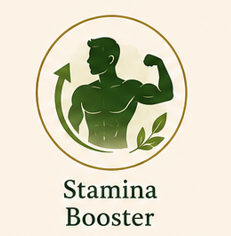
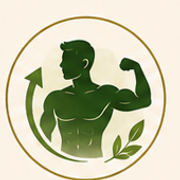
feat: crop concern images to remove the bottom text labels

diff --git a/src/styles/globals.css b/src/styles/globals.css
@@ -2677,7 +2677,7 @@ p {
   border: none;
   background: rgba(255, 255, 255, 0.88);
   backdrop-filter: blur(6px);
-  box-shadow: 0 2px 12px rgba(0,0,0,0.14);
+  box-shadow: 0 2px 12px rgba(0, 0, 0, 0.14);
   font-size: 1.6rem;
   line-height: 1;
   cursor: pointer;
@@ -2686,7 +2686,9 @@ p {
   align-items: center;
   justify-content: center;
   z-index: 10;
-  transition: background 0.18s, opacity 0.18s;
+  transition:
+    background 0.18s,
+    opacity 0.18s;
   padding: 0;
 }
 .carousel-arrow:disabled {
@@ -2696,8 +2698,12 @@ p {
 .carousel-arrow:not(:disabled):hover {
   background: var(--color-white);
 }
-.carousel-arrow-left  { left: 10px; }
-.carousel-arrow-right { right: 10px; }
+.carousel-arrow-left {
+  left: 10px;
+}
+.carousel-arrow-right {
+  right: 10px;
+}
 
 /* Slide counter badge */
 .carousel-counter {
@@ -2705,7 +2711,7 @@ p {
   bottom: 12px;
   left: 50%;
   transform: translateX(-50%);
-  background: rgba(0,0,0,0.42);
+  background: rgba(0, 0, 0, 0.42);
   color: #fff;
   font-size: 0.72rem;
   font-weight: 600;
@@ -2732,7 +2738,9 @@ p {
   padding: 3px;
   cursor: pointer;
   overflow: hidden;
-  transition: border-color 0.18s, box-shadow 0.18s;
+  transition:
+    border-color 0.18s,
+    box-shadow 0.18s;
   flex-shrink: 0;
 }
 .carousel-thumb:hover {
@@ -2753,7 +2761,9 @@ p {
   -webkit-overflow-scrolling: touch;
   scrollbar-width: none;
 }
-.product-tabs-strip::-webkit-scrollbar { display: none; }
+.product-tabs-strip::-webkit-scrollbar {
+  display: none;
+}
 
 /* ── Mobile fixes for product detail page ────────────────────── */
 @media (max-width: 768px) {
@@ -2811,7 +2821,6 @@ p {
   }
 }
 
-
 /* -- Mobile Bottom Nav --------------------------------------------------- */
 .mobile-bottom-nav {
   display: none;
@@ -2820,7 +2829,7 @@ p {
   left: 0;
   right: 0;
   background: var(--color-white);
-  box-shadow: 0 -2px 10px rgba(0,0,0,0.05);
+  box-shadow: 0 -2px 10px rgba(0, 0, 0, 0.05);
   z-index: 1000;
   padding-bottom: env(safe-area-inset-bottom);
 }
@@ -2915,7 +2924,7 @@ p {
   .mobile-bottom-nav {
     display: flex;
   }
-  
+
   /* Add padding to body so bottom nav doesn't hide content */
   body {
     padding-bottom: 60px;
@@ -2970,8 +2979,12 @@ p {
   text-transform: uppercase;
 }
 @keyframes marquee {
-  0% { transform: translateX(0); }
-  100% { transform: translateX(-50%); }
+  0% {
+    transform: translateX(0);
+  }
+  100% {
+    transform: translateX(-50%);
+  }
 }
 
 /* Horizontal Sliders (Products / Categories) */
@@ -3018,7 +3031,9 @@ p {
   padding: 0 var(--space-4);
   scrollbar-width: none;
 }
-.multi-list-scroll::-webkit-scrollbar { display: none; }
+.multi-list-scroll::-webkit-scrollbar {
+  display: none;
+}
 .multi-list-item {
   display: flex;
   flex-direction: column;
@@ -3133,7 +3148,9 @@ p {
 }
 .category-card-overlay {
   position: absolute;
-  bottom: 0; left: 0; right: 0;
+  bottom: 0;
+  left: 0;
+  right: 0;
   background: linear-gradient(transparent, rgba(6, 26, 17, 0.8));
   padding: var(--space-3);
   color: white;
@@ -3151,7 +3168,9 @@ p {
   flex-wrap: wrap;
   opacity: 0.6;
   filter: grayscale(100%);
-  transition: opacity 0.3s ease, filter 0.3s ease;
+  transition:
+    opacity 0.3s ease,
+    filter 0.3s ease;
 }
 .featured-logos:hover {
   opacity: 1;
@@ -3218,7 +3237,7 @@ p {
 }
 
 .step-indicator::before {
-  content: '';
+  content: "";
   position: absolute;
   top: 50%;
   left: 0;
@@ -3343,7 +3362,12 @@ p {
 
 .skeleton-image {
   aspect-ratio: 1;
-  background: linear-gradient(90deg, var(--color-gray-100) 25%, var(--color-gray-200) 50%, var(--color-gray-100) 75%);
+  background: linear-gradient(
+    90deg,
+    var(--color-gray-100) 25%,
+    var(--color-gray-200) 50%,
+    var(--color-gray-100) 75%
+  );
   background-size: 200% 100%;
   animation: skeleton-shimmer 1.4s ease infinite;
 }
@@ -3358,18 +3382,34 @@ p {
 .skeleton-line {
   height: 12px;
   border-radius: var(--radius-sm);
-  background: linear-gradient(90deg, var(--color-gray-100) 25%, var(--color-gray-200) 50%, var(--color-gray-100) 75%);
+  background: linear-gradient(
+    90deg,
+    var(--color-gray-100) 25%,
+    var(--color-gray-200) 50%,
+    var(--color-gray-100) 75%
+  );
   background-size: 200% 100%;
   animation: skeleton-shimmer 1.4s ease infinite;
 }
 
-.skeleton-line.short { width: 50%; }
-.skeleton-line.medium { width: 75%; }
-.skeleton-line.tall { height: 20px; width: 40%; }
+.skeleton-line.short {
+  width: 50%;
+}
+.skeleton-line.medium {
+  width: 75%;
+}
+.skeleton-line.tall {
+  height: 20px;
+  width: 40%;
+}
 
 @keyframes skeleton-shimmer {
-  0%   { background-position: 200% 0; }
-  100% { background-position: -200% 0; }
+  0% {
+    background-position: 200% 0;
+  }
+  100% {
+    background-position: -200% 0;
+  }
 }
 
 /* ── Concern Grid Responsive Layout ──────────────────────────── */
@@ -3403,19 +3443,28 @@ p {
   justify-content: center;
   box-shadow: 0 2px 14px rgba(0, 0, 0, 0.13);
   color: var(--color-forest-dark);
-  transition: background 0.2s, box-shadow 0.2s, transform 0.15s;
+  transition:
+    background 0.2s,
+    box-shadow 0.2s,
+    transform 0.15s;
 }
 .slider-nav-btn:hover {
   background: #fff;
   box-shadow: 0 4px 20px rgba(0, 0, 0, 0.18);
   transform: translateY(-50%) scale(1.08);
 }
-.slider-nav-left  { left: 8px; }
-.slider-nav-right { right: 8px; }
+.slider-nav-left {
+  left: 8px;
+}
+.slider-nav-right {
+  right: 8px;
+}
 
 /* Hide arrows on mobile — swipe is used instead */
 @media (max-width: 640px) {
-  .slider-nav-btn { display: none; }
+  .slider-nav-btn {
+    display: none;
+  }
 }
 
 /* ── Slider Track ─────────────────────────────────────────────── */

diff --git a/src/pages/index.tsx b/src/pages/index.tsx
@@ -159,17 +159,17 @@ export default function Home({ featuredProducts, categories, hero, promotional, 
         <div className="container" style={{ padding: 0 }}>
           <div className="multi-list-scroll">
             {[
-              { label: 'All\nProducts',      href: '/shop',                             img: '/images/concerns/daily-wellness.png' },
-              { label: 'Single Herb\nPowders', href: '/shop?category=single-herb-powders', img: '/images/concerns/stamina-booster.png' },
-              { label: 'Single Herb\nTablets', href: '/shop?category=single-herb-tablets', img: '/images/concerns/daily-wellness.png' },
-              { label: 'Hair\nCare',          href: '/shop?category=hair-care',            img: '/images/concerns/hair-wellness.png' },
-              { label: 'Skin\nCare',          href: '/shop?category=skin-care',            img: '/images/concerns/skin-wellness.png' },
+              { label: 'All\nProducts',      href: '/shop',                             img: '/images/logo.jpg' },
+              { label: 'Stamina\nBooster', href: '/shop?category=single-herb-powders', img: '/images/concerns/stamina-booster.png' },
+              { label: 'Daily\nWellness', href: '/shop?category=single-herb-tablets', img: '/images/concerns/daily-wellness.png' },
+              { label: 'Hair\nWellness',          href: '/shop?category=hair-care',            img: '/images/concerns/hair-wellness.png' },
+              { label: 'Skin\nWellness',          href: '/shop?category=skin-care',            img: '/images/concerns/skin-wellness.png' },
               { label: 'Digestive\nWellness', href: '/shop?category=digestive-wellness',   img: '/images/concerns/digestive-wellness.png' },
-              { label: 'Combos',              href: '/shop?category=combos',               img: '/images/concerns/immunity-wellness.png' },
+              { label: 'Immunity\nWellness',              href: '/shop?category=combos',               img: '/images/concerns/immunity-wellness.png' },
             ].map((cat, i) => (
               <Link key={i} href={cat.href} className="multi-list-item">
                 <div className="multi-list-image-wrap" style={{ display: 'flex', alignItems: 'center', justifyContent: 'center', overflow: 'hidden' }}>
-                  <img src={cat.img} alt={cat.label} style={{ width: '100%', height: '100%', objectFit: 'cover' }} />
+                  <img src={cat.img} alt={cat.label} style={{ width: '100%', height: '100%' }} />
                 </div>
                 <span className="multi-list-label" style={{ whiteSpace: 'pre-line' }}>{cat.label}</span>
               </Link>
@@ -341,21 +341,14 @@ export default function Home({ featuredProducts, categories, hero, promotional, 
                     src={`/images/concerns/${concern.slug}.png`}
                     alt={concern.name}
                     loading="lazy"
-                    style={{ width: '100%', height: '100%', objectFit: 'cover' }}
+                    style={{ width: '100%', height: '100%', objectFit: 'contain' }}
                     onError={(e) => {
                       // fallback to emoji if image missing
                       (e.currentTarget as HTMLImageElement).style.display = 'none';
                     }}
                   />
                 </div>
-                <span style={{
-                  fontSize: '0.8rem',
-                  fontWeight: 700,
-                  color: 'var(--color-forest-dark)',
-                  lineHeight: '1.25'
-                }}>
-                  {concern.name}
-                </span>
+                
               </Link>
             ))}
           </div>
